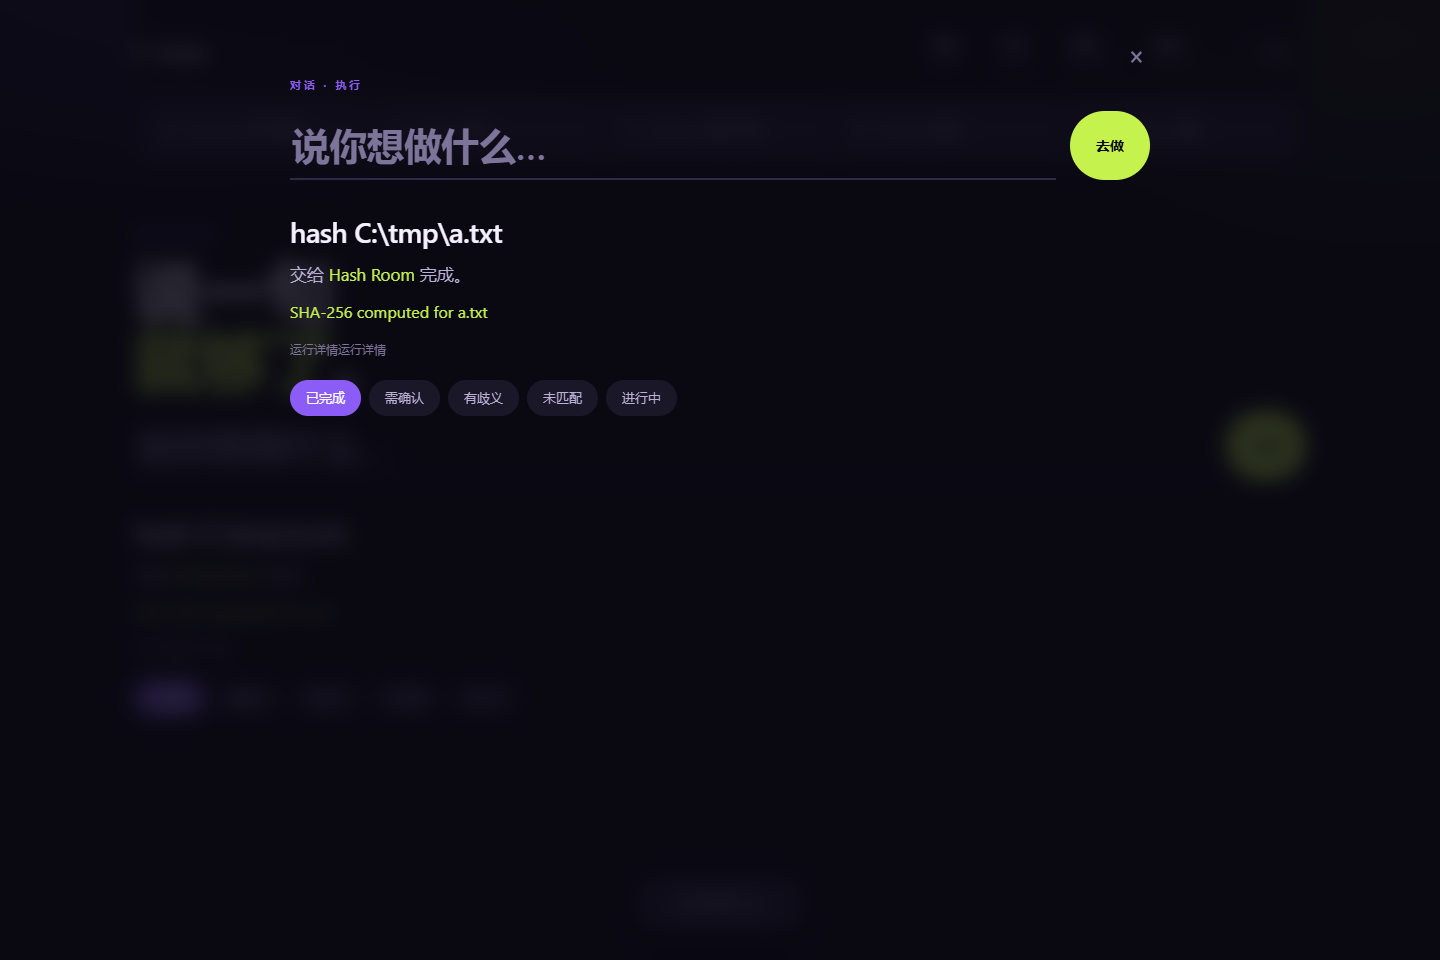
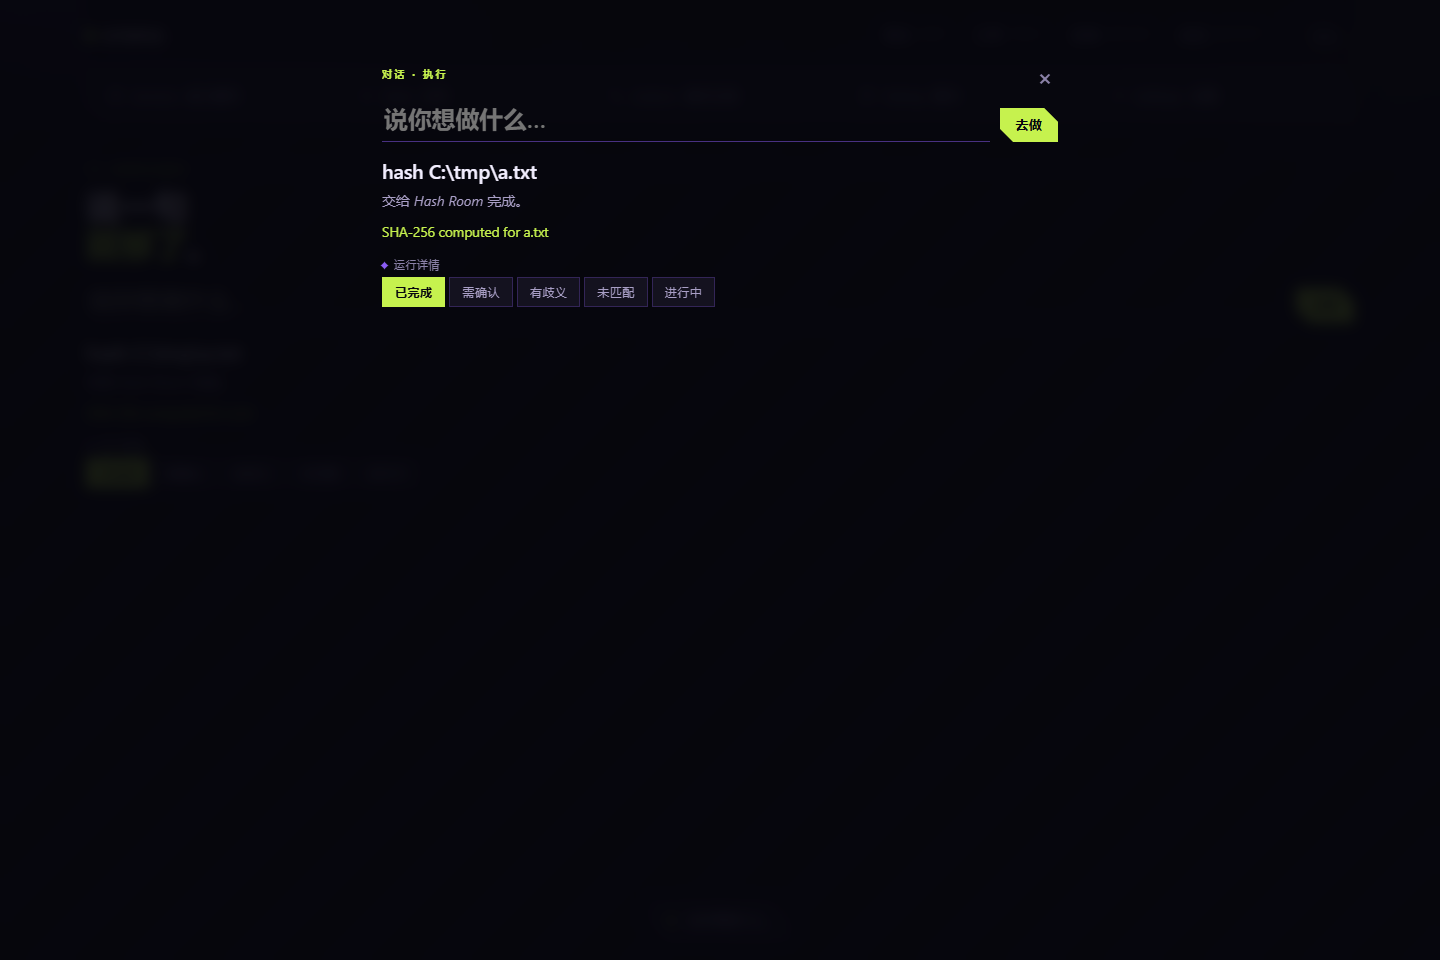
review(ui-000): Mech independent review of C2 - one systematic accessibility defect found and repaired
Review of revision head aea8361 (CI 36863682166 verified independently before claiming). Mech is the eligible review host because Alien developed the revision at the Owner's direct instruction and section 3 forbids self-review.

Instrument: scripts/ui-000/review-mech-probes.mjs, written for this review and deliberately NOT reusing parity.mjs (Mech's Development runner) or review-probes.mjs (Alien's), because section 3 forbids signing off by repeating the author's tests. It adds the one measurement neither host had made - colour contrast - plus checks of the revision's own stated claims.

FOUND AND REPAIRED (real defect, systematic, all three directions): the tertiary text token --ink-3 failed WCAG 2.1 AA 4.5:1 wherever it was used - 267 rendered elements at 9.5-14px, covering timestamps, status labels, field labels and secondary metadata. Ratios: A 3.65:1, B 3.41:1, C 3.26:1 (worst). On candidate C's near-black HUD the fix had to go LIGHTER, not darker. Hue preserved, lightness only: A #8b8073->#7a6f60, B #7e8884->#626c67, C #6f6788->#8b82a8. Two further A-only failures were the selected chip (accent on accent-soft, 3.76:1) and the warn badge (4.10:1); fixed with a text-safe accent ink and a darker warn. Result: 267 -> 0 elements below AA.
[…]

diff --git a/apps/web/candidates/a/a.css b/apps/web/candidates/a/a.css
@@ -7,12 +7,18 @@
   --paper-2: #f3ede3;
   --ink: #241f1a;
   --ink-2: #5c5347;
-  --ink-3: #8b8073;
+  /* was #8b8073 (3.65:1 on --paper) — below WCAG AA 4.5:1 for every one of the 79
+     elements that use it (timestamps, field labels, secondary metadata) at 12-14px.
+     Same hue, lightness only, so the direction is unchanged. See REVIEW_REPORT. */
+  --ink-3: #7a6f60;
   --rule: #e3dacb;
   --accent: #b4502a;
+  /* text-safe variant of --accent for use ON --accent-soft (4.75:1 vs 3.76:1) */
+  --accent-ink: #9c4423;
   --accent-soft: #f0d9cd;
   --ok: #4a6b3c;
-  --warn: #8a6a1f;
+  /* was #8a6a1f (4.10:1 on the warn tint) — below WCAG AA 4.5:1 for badge text. */
+  --warn: #7a5c18;
   --radius: 8px;
   --serif: "Iowan Old Style", "Palatino Linotype", Palatino, Georgia, "Songti SC", serif;
   --sans: "Segoe UI", "Microsoft YaHei", system-ui, -apple-system, sans-serif;
@@ -188,7 +194,9 @@ button.quiet.small { padding: 3px 10px; font-size: 12.5px; }
 
 .stage-switch { display: flex; flex-wrap: wrap; gap: 8px; margin-top: 26px; }
 .chip { font: inherit; font-size: 13px; color: var(--ink-3); background: none; border: 1px solid var(--rule); border-radius: 999px; padding: 5px 13px; cursor: pointer; }
-.chip.is-on { color: var(--accent); border-color: var(--accent-soft); background: var(--accent-soft); }
+/* --accent is text-safe on --paper (4.81:1) but not on --accent-soft (3.76:1), so the
+   selected chip needs the same hue at a text-safe lightness. See REVIEW_REPORT. */
+.chip.is-on { color: var(--accent-ink); border-color: var(--accent-soft); background: var(--accent-soft); }
 
 /* ---------------------------------------------------------- declarations */
 

diff --git a/apps/web/candidates/c/c.css b/apps/web/candidates/c/c.css
@@ -21,7 +21,10 @@
   --line-2: rgba(139, 92, 246, .5);
   --ink: #f2eeff;
   --ink-2: #a99fc6;
-  --ink-3: #6f6788;
+  /* was #6f6788 (3.26:1 on --layer-2, 3.50:1 on --layer-1, 3.79:1 on --void) — below
+     WCAG AA 4.5:1 for all 96 elements that use it at 9.5-12px. On a near-black HUD the
+     fix is to go LIGHTER, not darker. Same hue, lightness only. */
+  --ink-3: #8b82a8;
   --violet: #8b5cf6;
   --accent: #8b5cf6;
   --violet-dim: #3d2580;

diff --git a/apps/web/candidates/b/b.css b/apps/web/candidates/b/b.css
@@ -9,7 +9,9 @@
   --surface-2: #eef0ee;
   --ink: #0f1513;
   --ink-2: #4a534f;
-  --ink-3: #7e8884;
+  /* was #7e8884 (3.41:1 on --bg, 3.66:1 on white) — below WCAG AA 4.5:1 for all
+     89 elements that use it at 10-12.5px. Same hue, lightness only. */
+  --ink-3: #626c67;
   --line: #dde1dd;
   --line-strong: #c3cac5;
   --accent: #1f4ed8;

diff --git a/evidence/raw/mission-book/UI-000/README.md b/evidence/raw/mission-book/UI-000/README.md
@@ -54,10 +54,16 @@ that fixed the very defect the Review had flagged. Human eyeballing failed three
 `node scripts/ui-000/evidence-check.mjs` fails with `EVIDENCE_POINTER_MISMATCH` once the branch head
 moves past it. `--write` regenerates the manifest after a deliberate re-capture.
 
-Note on the current capture: **only candidate B's rendered pixels changed** in the last re-capture.
-The WCAG minimum-target fix was a no-op for A and C at these viewports (their line boxes already
-exceeded 24px), so their PNGs are byte-identical rather than re-encoded. B changed visibly because it
-also stopped rendering raw event types on its primary path — the exact point its Review flagged.
+Note on the current capture (revision review, head `aea8361`): the review host measured colour
+contrast, which neither earlier instrument did, and found the tertiary text token failing WCAG AA in
+**all three** directions. The fix changed that one token per candidate (plus candidate A's warn and
+selected-chip colours), so **all three** directions' screenshots changed in this capture — a
+lightness-only adjustment that preserves each direction's hue.
+
+Note on the previous capture: only candidate B's rendered pixels changed there. The WCAG
+minimum-target fix was a no-op for A and C at these viewports (their line boxes already exceeded
+24px), so their PNGs were byte-identical rather than re-encoded. B changed visibly because it also
+stopped rendering raw event types on its primary path — the exact point its Review flagged.
 
 Two evidence captures were **not** produced the naive way, and the reason is recorded because it
 is a real finding rather than a convenience:

diff --git a/evidence/raw/mission-book/UI-000/parity-report.md b/evidence/raw/mission-book/UI-000/parity-report.md
@@ -1,6 +1,6 @@
 # UI-000 capability parity report
 
-- generated: 2026-10-01T11:45:07.633Z
+- generated: 2026-10-01T12:57:12.086Z
 - candidates: a, b, c
 - probes: 396/396 passed
 - result: PASS
